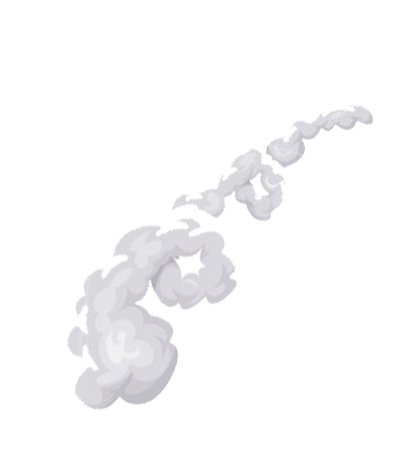
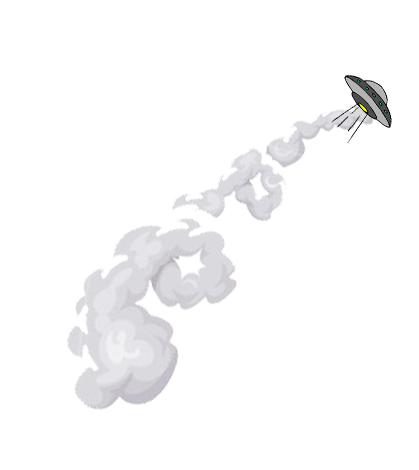
wrote the game description in my md file

Changed region(s): [[0.8067, 0.1489, 0.9618, 0.2979]]

diff --git a/README.md b/README.md
@@ -1,10 +1,9 @@
 # Hangman-Game
-
 ##Overview
 
+I created a Hangman game (Area 51 version) for my first project. 
 
-
-Write a Hangman game that displays a secret word as a list of hidden letters. Also display an alphabet of letters that the user can guess while trying to guess the word. After a letter is used, disable that letter from the alphabet so the user will not try to guess the same letter twice. When a guess matches one or more letters in the secret word, reveal those letters to the user. Keep track of the number of incorrect guesses and end the game if the number of incorrect guesses reaches 6. If the user reveals all of the hidden letters before reaching 6 incorrect guesses, then the user wins.
+As soon as a user logs into the site, they  will be presented with a keyboard, blank spaces based on the number of letters in the mystery word, heart icons in the top right corner, and an image of a spaceship and a cow. The task is to figure out what the mystery word is before the spaceship abducts the cow. Users are given six chances before the cow is abducted. For every incorrect guess, the user will lose a heart and watch the cow float closer to the ship. Ultimately, the spaceship will abduct the cow and takeoff once the user uses up all the lives. The game also allows to replay the game by clicking on the replay button beneath the keyboard.
 
 
 #Link to Trello page:
@@ -13,7 +12,12 @@ https://trello.com/b/dF68zn7m/wdi-project-1-hangman
 
 
 
-
+A Project description
+A Link to the Deployed App
+A Link to the Trello Board
+A Link to any Wirefames or Mockups (or inline photos / screenshots will work too!)
+A list of technologies, libraries, and/or frameworks used in the project, such as Twitter Bootstrap, jQuery, or Animate.css
+What you would like to add in version 2
 
 
 
